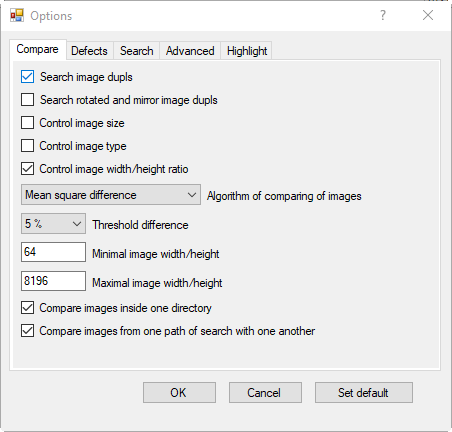
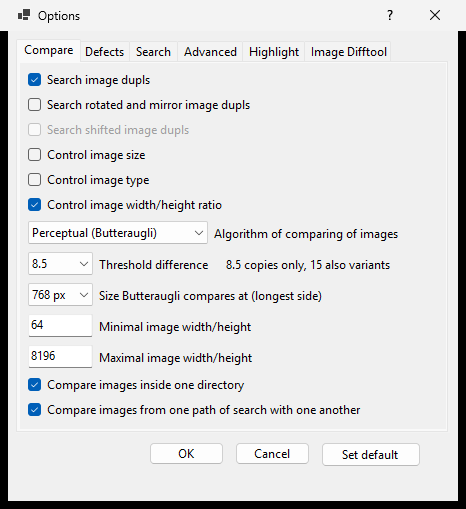
Help: Perceptual (Butteraugli) and its working size, English and Russian
The options page names the algorithm, its range and default, the two
thresholds shown beside the list, and the new option; the results table's
page says its difference has no unit. The Compare tab's picture shows the
current tab, the shifted search's row included.

diff --git a/docs/data/help/russian/options.html b/docs/data/help/russian/options.html
@@ -63,6 +63,8 @@
 <b>Алгоритм сравнения изображений</b> - алгоритм с помощью которого сравниваются картинки. В стандартном быстром алгоритме - <b>'Среднеквадратичная разность'</b> высчитывается среднеквадратичное отклонение яркости для каждой пары изображений. Он быстрый, но имеет большой процент ложных срабатываний для картинок с большим однородным фоном и может не находить сильно измененые изображения. При сравнение картинок с помощью индекса структурного сходства (<b>'SSIM'</b>) можно найти дубликаты среди сильно измененных картинок, а также лучше сравниваются изображения с большим однородным фоном, но подсчет медленнее. Также <b>'SSIM'</b> очень чувствителен к отнормированному размеру картинок. Лучше его не использовать при размерах меньше чем 128x128.
 В алгоритме <b>'Локальная разность цвета'</b> для каждой картинки хранится цветная миниатюра 64x64, а разностью двух картинок считается среднеквадратичная разность цвета в самом несхожем блоке 4x4.
 Поэтому изменение цвета или небольшая местная правка учитываются в полной мере, а не теряются в среднем по всей картинке, и этот алгоритм гораздо лучше отличает копии картинки от других ее версий, работая примерно с той же скоростью, что и <b>'SSIM'</b>.
+Алгоритм <b>'Перцептивная (Butteraugli)'</b> оценивает, насколько различие заметно глазу: у сжатых и уменьшенных копий оценка низкая, а правка выделяется, даже небольшая.
+Он слишком медленный, чтобы сравнивать все пары, поэтому оценивает только те, которые <b>'Локальная разность цвета'</b> находит в пределах 10 %, и сохраняет оценки для следующего поиска в файле <b>butteraugli.adp</b> в папке пользователя.
 По умолчанию используется <b>'Среднеквадратичная разность'</b> .
 Данный параметр продублирован на <a href="index.html?page=toolbar.html" target="_top">панели инструментов</a>.
  </p></li>
@@ -73,8 +75,17 @@
 Если же ему задать слишком большие значения, то увеличится вероятность ложных срабатываний.
 Кроме того стоит отметить, что увеличение этого параметра приводит к замедлению скорости работы алгоритма и наоборот.  
 Он может меняться в интервале от 0 до 15 % для алгоритма <b>'Среднеквадратичная разность'</b> и от 0 до 50 % для алгоритмов <b>'SSIM'</b> и <b>'Локальная разность цвета'</b>.
+Для алгоритма <b>'Перцептивная (Butteraugli)'</b> это оценка без единицы измерения, от 0 до 50.
 По умолчанию этот параметр равен 5 % для алгоритма <b>'Среднеквадратичная разность'</b>, 20 % для алгоритма <b>'SSIM'</b> и 4 % для алгоритма <b>'Локальная разность цвета'</b>.
+Для алгоритма <b>'Перцептивная (Butteraugli)'</b> значение по умолчанию зависит от параметра <b>Размер для сравнения Butteraugli</b>, а рядом со списком показаны два значения, подходящие для этого размера: при 768 px значение 8,5 находит копии и не находит другие версии картинки, а 15 находит также копии, пропущенные при 8,5, и часть других версий, поэтому такие результаты стоит просмотреть перед удалением.
 Данный параметр продублирован на <a href="index.html?page=toolbar.html" target="_top">панели инструментов</a>.
+ </p></li>
+ <li><p align="justify">
+<b>Размер для сравнения Butteraugli (длинная сторона)</b> - размер, до которого алгоритм <b>'Перцептивная (Butteraugli)'</b> уменьшает большие картинки перед сравнением.
+При большем размере заметны меньшие различия, но сравнение идет дольше: 1024 px занимает примерно в шесть раз больше времени, чем 384 px.
+Оценки растут вместе с этим размером, поэтому от него зависят значение порога по умолчанию и значения, показанные рядом со списком.
+Может принимать значения 384, 512, 768 или 1024 px.
+По умолчанию этот параметр равен 768 px.
  </p></li>
  <li><p align="justify">
 <b>Минимальная ширина/высота картинок</b> - устанавливает минимальную ширину/высоту картинок необходимую, чтобы они проверялись на наличие дефектов или дубликатов.

diff --git a/docs/data/help/english/options.html b/docs/data/help/english/options.html
@@ -64,6 +64,8 @@ By default, this option is enabled.
 <b>Algorithm of comparing of images</b> - algorithm by means of which pictures are compared. In standard fast algorithm - <b>'Mean square difference'</b> calculate a mean square deviation of brightness for each couple of images. He fast, but has big percent of false positives for pictures with a big uniform background and can not find strongly changed images. When comparing pictures by means of an index of structural similarity (<b>'SSIM'</b>) can find duplicates among strongly changed pictures, and also images with a big uniform background are better compared, but calculation more slowly. Also <b>'SSIM'</b> is very sensitive to the normalized size of image. It is better not to use him at the sizes less than 128x128.
 In algorithm <b>'Local colour difference'</b> each image keeps a 64x64 colour thumbnail, and the difference of two images is the root mean square colour difference of their worst 4x4 block.
 A change of colour or a small local edit therefore counts in full instead of vanishing in an average over the whole picture, so this algorithm tells copies of a picture from its other versions much better, at about the speed of <b>'SSIM'</b>.
+Algorithm <b>'Perceptual (Butteraugli)'</b> judges how visible a difference is to the eye: copies that were compressed or resized score low, while an edit stands out, however small.
+It is too slow to compare every pair, so it scores only the pairs that <b>'Local colour difference'</b> finds within 10%, and it keeps the scores for the next search in the file <b>butteraugli.adp</b> in the user folder.
 The default setting is <b>'Mean square difference'</b>.
 This parameter is duplicated on the <a href="index.html?page=toolbar.html" target="_top">Tool Bar</a>.
  </p></li>
@@ -74,8 +76,17 @@ If it is equal to zero then program will be able to find only fully identical im
 If he set too high, then increase the likelihood of false positives.
 Also worth noting that the increase in this parameter leads to a slower speed of the algorithm and vice versa.
 It can vary in the range from 0 to 15% for algorithm <b>'Mean square difference'</b> and from 0 to 50% for algorithms <b>'SSIM'</b> and <b>'Local colour difference'</b>.
+For algorithm <b>'Perceptual (Butteraugli)'</b> it is a score without a unit, from 0 to 50.
 By default, this parameter is equal to 5% for algorithm <b>'Mean square difference'</b>, 20% for algorithm <b>'SSIM'</b> and 4% for algorithm <b>'Local colour difference'</b>.
+For algorithm <b>'Perceptual (Butteraugli)'</b> the default follows <b>Size Butteraugli compares at</b>, and beside the list are the two values worth using at that size: at 768 px, 8.5 finds copies and leaves out the other versions of a picture, and 15 also finds the copies that 8.5 misses, along with some of those versions, so look at those results before deleting.
 This parameter is duplicated on the <a href="index.html?page=toolbar.html" target="_top">Tool Bar</a>.
+ </p></li>
+ <li><p align="justify">
+<b>Size Butteraugli compares at (longest side)</b> - the size to which algorithm <b>'Perceptual (Butteraugli)'</b> reduces larger images before comparing them.
+A larger size sees smaller differences and takes longer: 1024 px takes about six times as long as 384 px.
+Scores grow with this size, so the default threshold and the values shown beside the list follow it.
+It can be 384, 512, 768 or 1024 px.
+By default, this parameter is equal to 768 px.
  </p></li>
  <li><p align="justify">
 <b>Minimal image width/height</b> - sets the minimum width/height of images is necessary that they will be checked for the presence of defects or duplicates.

diff --git a/docs/data/help/russian/table.html b/docs/data/help/russian/table.html
@@ -55,6 +55,7 @@
  </p></li>
  <li><p align="justify">
 <b>Различие</b> - отображает в процентах среднеквадратическую разность содержимого картинок дублирующей пары.
+Для алгоритма <b>'Перцептивная (Butteraugli)'</b> отображает его оценку, у которой нет единицы измерения.
 Если изображения полностью идентичны, то разность отображается зеленым цветом.
  </p></li>
  <li><p align="justify">

diff --git a/docs/data/help/english/table.html b/docs/data/help/english/table.html
@@ -56,6 +56,7 @@ This column displays the number of such groups.
  </p></li>
  <li><p align="justify">
 <b>Difference</b> - it displays the percentage mean-square difference of content of pictures of duplicate pair.
+For algorithm <b>'Perceptual (Butteraugli)'</b> it displays the score, which has no unit.
 If the images are fully identical, the difference is shown in green.
  </p></li>
  <li><p align="justify">
